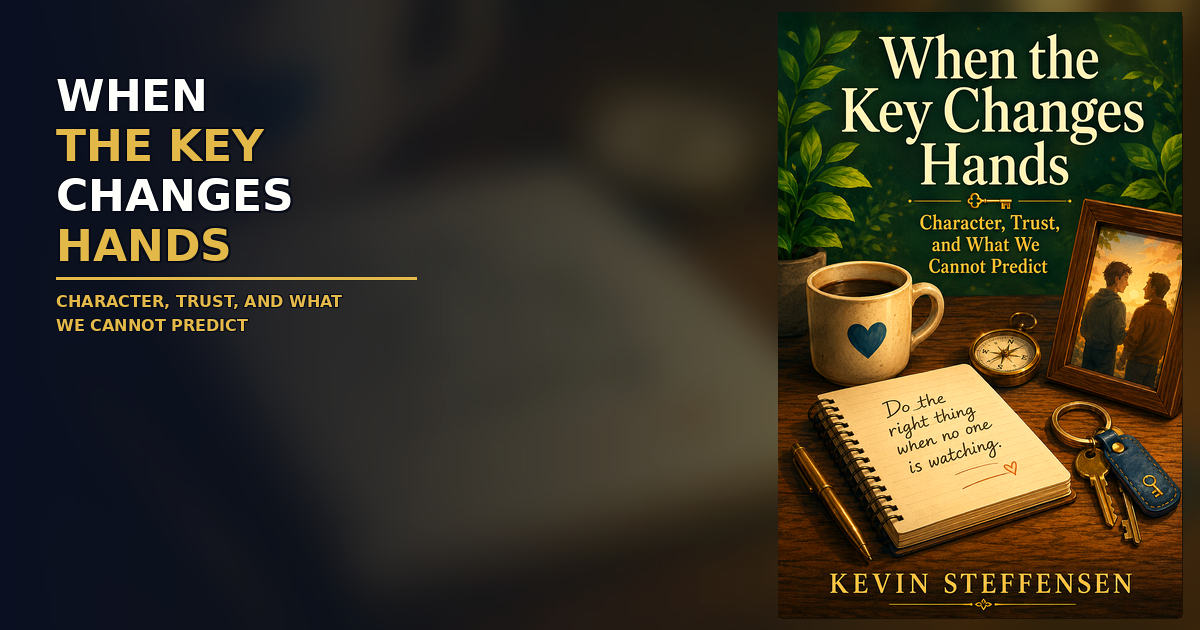
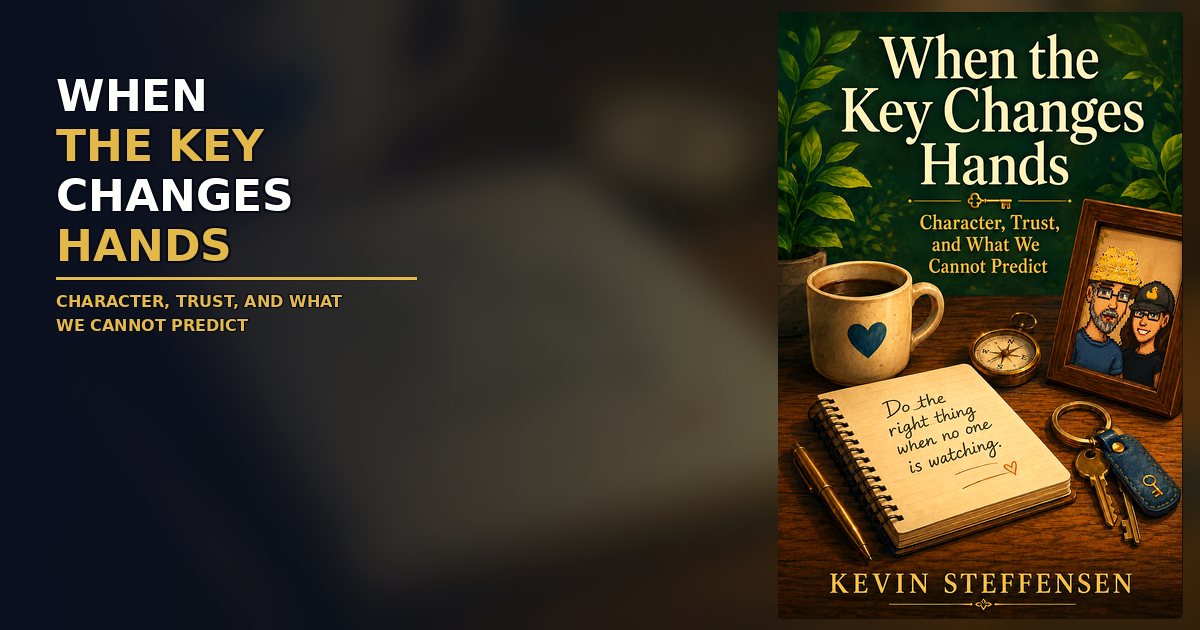
Update When the Key Changes Hands cover and open graph image (#534)
* Update When the Key Changes Hands cover and open-graph image.

Replace book-cover.png with the revised desk-scene art, regenerate
open-graph.png via the house layout, and refresh the title page.

* Note revised cover art in open-graph config comment.

---------

diff --git a/books/when-the-key-changes-hands/front-matter/title-page.md b/books/when-the-key-changes-hands/front-matter/title-page.md
@@ -7,3 +7,5 @@
 ## **Character, Trust, and What We Cannot Predict**
 
 **Kevin Steffensen**
+
+\newpage
